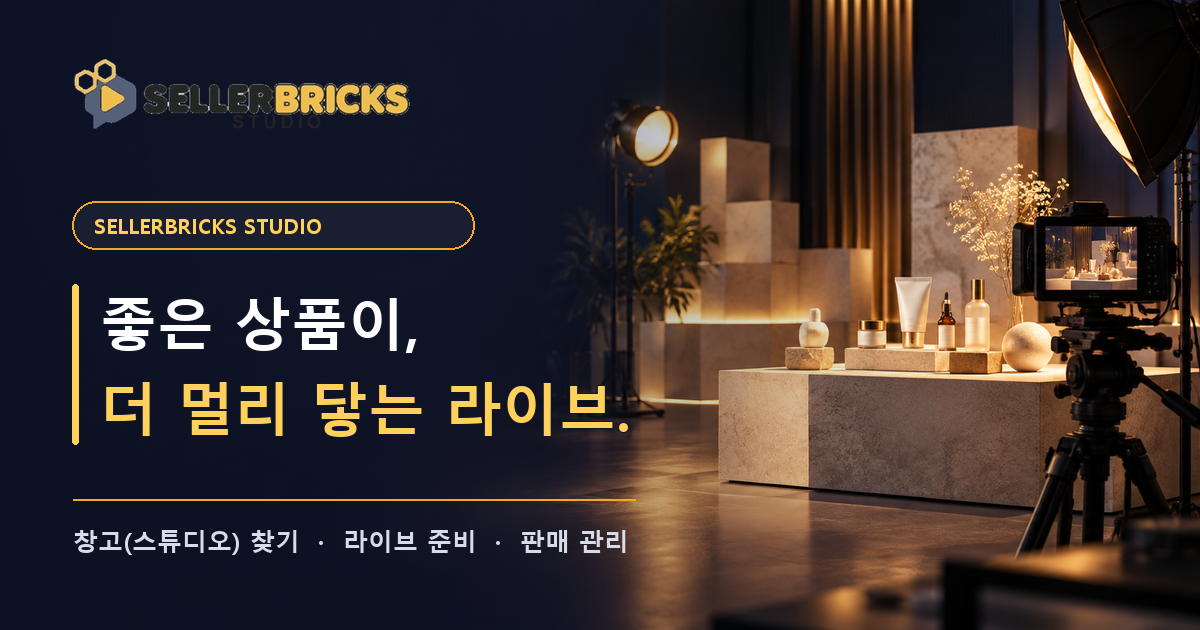
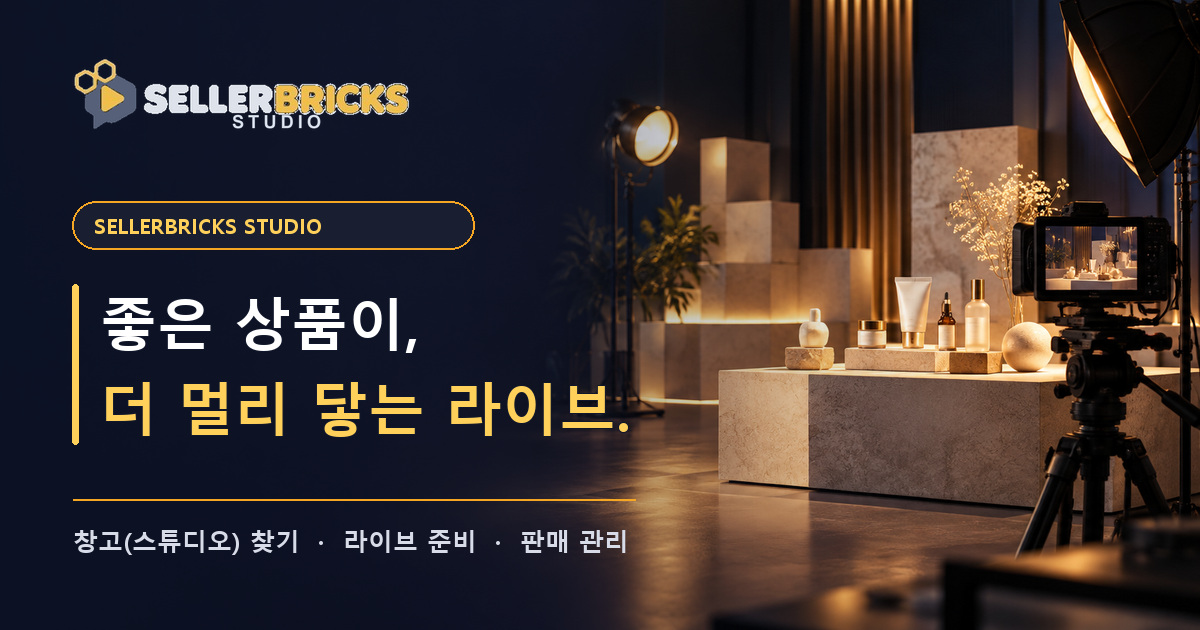
어두운 배경 로고 가시성 개선

Changed region(s): [[0.1233, 0.1206, 0.3392, 0.2111]]

diff --git a/src/app/(public)/intro/pdfGenerator.ts b/src/app/(public)/intro/pdfGenerator.ts
@@ -60,7 +60,7 @@ export async function generateSellerBricksPdf(
         'border-radius:50%;background:#E8921A;opacity:0.07;"></div>' +
         '<div style="display:flex;flex-direction:column;align-items:center;justify-content:center;' +
         'height:100%;padding:80px;box-sizing:border-box;text-align:center;position:relative;">' +
-          '<img src="' + origin + '/images/brand/logo-original-on-dark.png" ' +
+          '<img src="' + origin + '/images/brand/logo-original-on-dark.png?v=4" ' +
           'style="height:50px;margin-bottom:44px;object-fit:contain;" />' +
           '<div style="background:#F5A623;color:#1C1917;font-size:11px;font-weight:700;' +
           'letter-spacing:2px;padding:5px 18px;border-radius:20px;margin-bottom:32px;">' +
@@ -302,7 +302,7 @@ export async function generateSellerBricksPdf(
         'border-radius:50%;background:#E8921A;opacity:0.06;"></div>' +
         '<div style="display:flex;flex-direction:column;align-items:center;justify-content:center;' +
         'height:100%;padding:80px;box-sizing:border-box;text-align:center;position:relative;">' +
-          '<img src="' + origin + '/images/brand/logo-original-on-dark.png" ' +
+          '<img src="' + origin + '/images/brand/logo-original-on-dark.png?v=4" ' +
           'style="height:44px;margin-bottom:36px;object-fit:contain;" />' +
           '<div style="color:#F5A623;font-size:12px;font-weight:700;letter-spacing:2px;margin-bottom:16px;">' +
             'GET STARTED TODAY' +

diff --git a/src/components/layout/site-footer.tsx b/src/components/layout/site-footer.tsx
@@ -12,7 +12,7 @@ export function SiteFooter() {
     <footer className="bg-[#11172B] text-white">
       <div className="container grid gap-12 py-16 sm:py-20 lg:grid-cols-[1.5fr_1fr] lg:gap-20">
         <div>
-          <Link href="/" className="inline-block"><Image src="/images/brand/logo-original-on-dark.png" alt="셀러브릭스 스튜디오" width={210} height={56} className="h-14 w-auto object-contain" /></Link>
+          <Link href="/" className="inline-block"><Image src="/images/brand/logo-original-on-dark.png?v=4" alt="셀러브릭스 스튜디오" width={210} height={56} className="h-14 w-auto object-contain" /></Link>
           <h2 className="mt-8 text-2xl font-extrabold leading-snug tracking-tight sm:text-3xl">방송에만 집중하세요.<br /><span className="text-brand-300">나머지는 우리가 합니다.</span></h2>
           <p className="mt-4 max-w-md text-sm leading-7 text-white/55">라이브커머스의 공간 탐색부터 운영과 판매 이후의 확인까지, 셀러의 다음 단계를 함께 준비합니다.</p>
           <Link href="/signup/seller" className="mt-7 inline-flex min-h-11 items-center gap-2 rounded-full border border-white/25 px-5 text-sm font-bold text-white transition hover:border-brand-400 hover:text-brand-300">셀러로 시작하기<ArrowRight className="h-4 w-4" /></Link>

diff --git a/src/app/layout.tsx b/src/app/layout.tsx
@@ -6,7 +6,7 @@ import { Providers } from "@/components/providers";
 const siteName = "셀러브릭스 스튜디오";
 const shareTitle = "좋은 상품이 더 멀리 닿는 라이브";
 const shareDescription = "창고(스튜디오) 찾기부터 라이브 준비와 판매 관리까지, 셀러브릭스 스튜디오가 함께합니다.";
-const shareImage = "/images/social/share-card-v3.jpg";
+const shareImage = "/images/social/share-card-v4.jpg";
 
 function getSiteUrl(): URL {
   const configuredUrl = process.env.NEXT_PUBLIC_APP_URL;

diff --git a/src/app/(auth)/layout.tsx b/src/app/(auth)/layout.tsx
@@ -6,7 +6,7 @@ export default function AuthLayout({ children }: { children: React.ReactNode }) 
     <div className="min-h-screen bg-gradient-to-b from-navy to-blue-950 flex flex-col items-center justify-center p-4 py-8">
       <Link href="/" className="mb-6 flex flex-col items-center">
         <Image
-          src="/images/brand/logo-original-on-dark.png"
+          src="/images/brand/logo-original-on-dark.png?v=4"
           alt="셀러브릭스 스튜디오"
           width={220}
           height={56}

diff --git a/src/components/layout/dashboard-shell.tsx b/src/components/layout/dashboard-shell.tsx
@@ -142,7 +142,7 @@ export function DashboardShell({
         onClick={onNav}
       >
         <Image
-          src="/images/brand/logo-original-on-dark.png"
+          src="/images/brand/logo-original-on-dark.png?v=4"
           alt="셀러브릭스 스튜디오"
           width={190}
           height={48}

diff --git a/scripts/generate-brand-assets.py b/scripts/generate-brand-assets.py
@@ -28,15 +28,17 @@ def variant(image: Image.Image, dark_background: bool) -> Image.Image:
     pixels = []
     for index, (red, green, blue, alpha) in enumerate(image.get_flattened_data()):
         x = index % image.width
-        if x >= 80 or is_gold(red, green, blue):
-            # Keep the supplied SELLERBRICKS lettering and gold details intact.
+        if is_gold(red, green, blue):
             pixels.append((red, green, blue, alpha))
+        elif x >= 80 and max(red, green, blue) < 135:
+            # The black SELLER letters need a soft light fill on navy.
+            pixels.append((222, 227, 235, alpha))
         elif max(red, green, blue) < 135:
             # Only recolor the speech-bubble symbol around the play button.
             # Muted blue gray keeps the mark visible on navy without turning it white.
             pixels.append((86, 96, 120, alpha))
         else:
-            # Darken any pale edge pixels around the symbol so it does not glow.
+            # Replace the raster's pale outline with a quiet navy edge.
             pixels.append((25, 31, 49, alpha))
     result = Image.new("RGBA", image.size)
     result.putdata(pixels)
@@ -59,7 +61,7 @@ def make_wordmark(name: str, dark_background: bool) -> None:
     wordmark_center = (80 + SOURCE.width) * scale / 2
     x = wordmark_center - label_width / 2
     for letter in label:
-        draw.text((round(x), 199), letter, font=font, fill="#202126")
+        draw.text((round(x), 199), letter, font=font, fill="#D5DCE8" if dark_background else "#202126")
         x += draw.textlength(letter, font=font) + spacing
 
     bounds = canvas.getbbox()

diff --git a/scripts/generate-share-card.py b/scripts/generate-share-card.py
@@ -75,7 +75,7 @@ def main() -> None:
     draw.text((73, 523), detail, font=fit_font(draw, detail, font_path, 25, 620), fill=muted)
 
     output = SOCIAL / "share-card.png"
-    share_jpg = SOCIAL / "share-card-v3.jpg"
+    share_jpg = SOCIAL / "share-card-v4.jpg"
     rgb_card = card.convert("RGB")
     rgb_card.save(output, optimize=True)
     rgb_card.save(share_jpg, quality=90, optimize=True, progressive=True)

diff --git a/README.md b/README.md
@@ -69,7 +69,7 @@ npm run dev
 
 ## 카카오톡·SNS 공유 카드
 
-사이트 링크의 미리보기에는 `public/images/social/share-card-v3.jpg`(1200×630)가 사용됩니다. Open Graph와 X(Twitter) 카드의 제목·설명·절대 이미지 URL은 `src/app/layout.tsx`에서 설정합니다. 실제 배포 환경에서는 `NEXT_PUBLIC_APP_URL`을 공개 사이트 주소(예: `https://example.com`)로 설정하세요. 이 값이 없으면 요청 호스트를 사용합니다.
+사이트 링크의 미리보기에는 `public/images/social/share-card-v4.jpg`(1200×630)가 사용됩니다. Open Graph와 X(Twitter) 카드의 제목·설명·절대 이미지 URL은 `src/app/layout.tsx`에서 설정합니다. 실제 배포 환경에서는 `NEXT_PUBLIC_APP_URL`을 공개 사이트 주소(예: `https://example.com`)로 설정하세요. 이 값이 없으면 요청 호스트를 사용합니다.
 
 공유 이미지의 배경 원본은 `public/images/social/share-background.png`입니다. 네이비·골드 톤의 라이브커머스 촬영 스튜디오를 생성형 이미지로 제작하고, 로고와 한글 문구는 코드로 선명하게 합성했습니다. 문구를 바꾼 뒤에는 Pillow와 한글 글꼴이 있는 환경에서 `scripts/generate-share-card.py`를 실행하면 PNG 원본과 공유용 JPEG를 함께 다시 만들 수 있습니다. 예: `python scripts/generate-share-card.py --font /path/to/korean-bold.ttf`. 로고를 바꿀 때는 `scripts/generate-brand-assets.py`를 먼저 실행하세요. 공유 카드가 크게 바뀌면 JPEG 파일 이름의 버전을 올려 카카오톡 등 외부 서비스의 기존 이미지 캐시를 피하세요.
 
